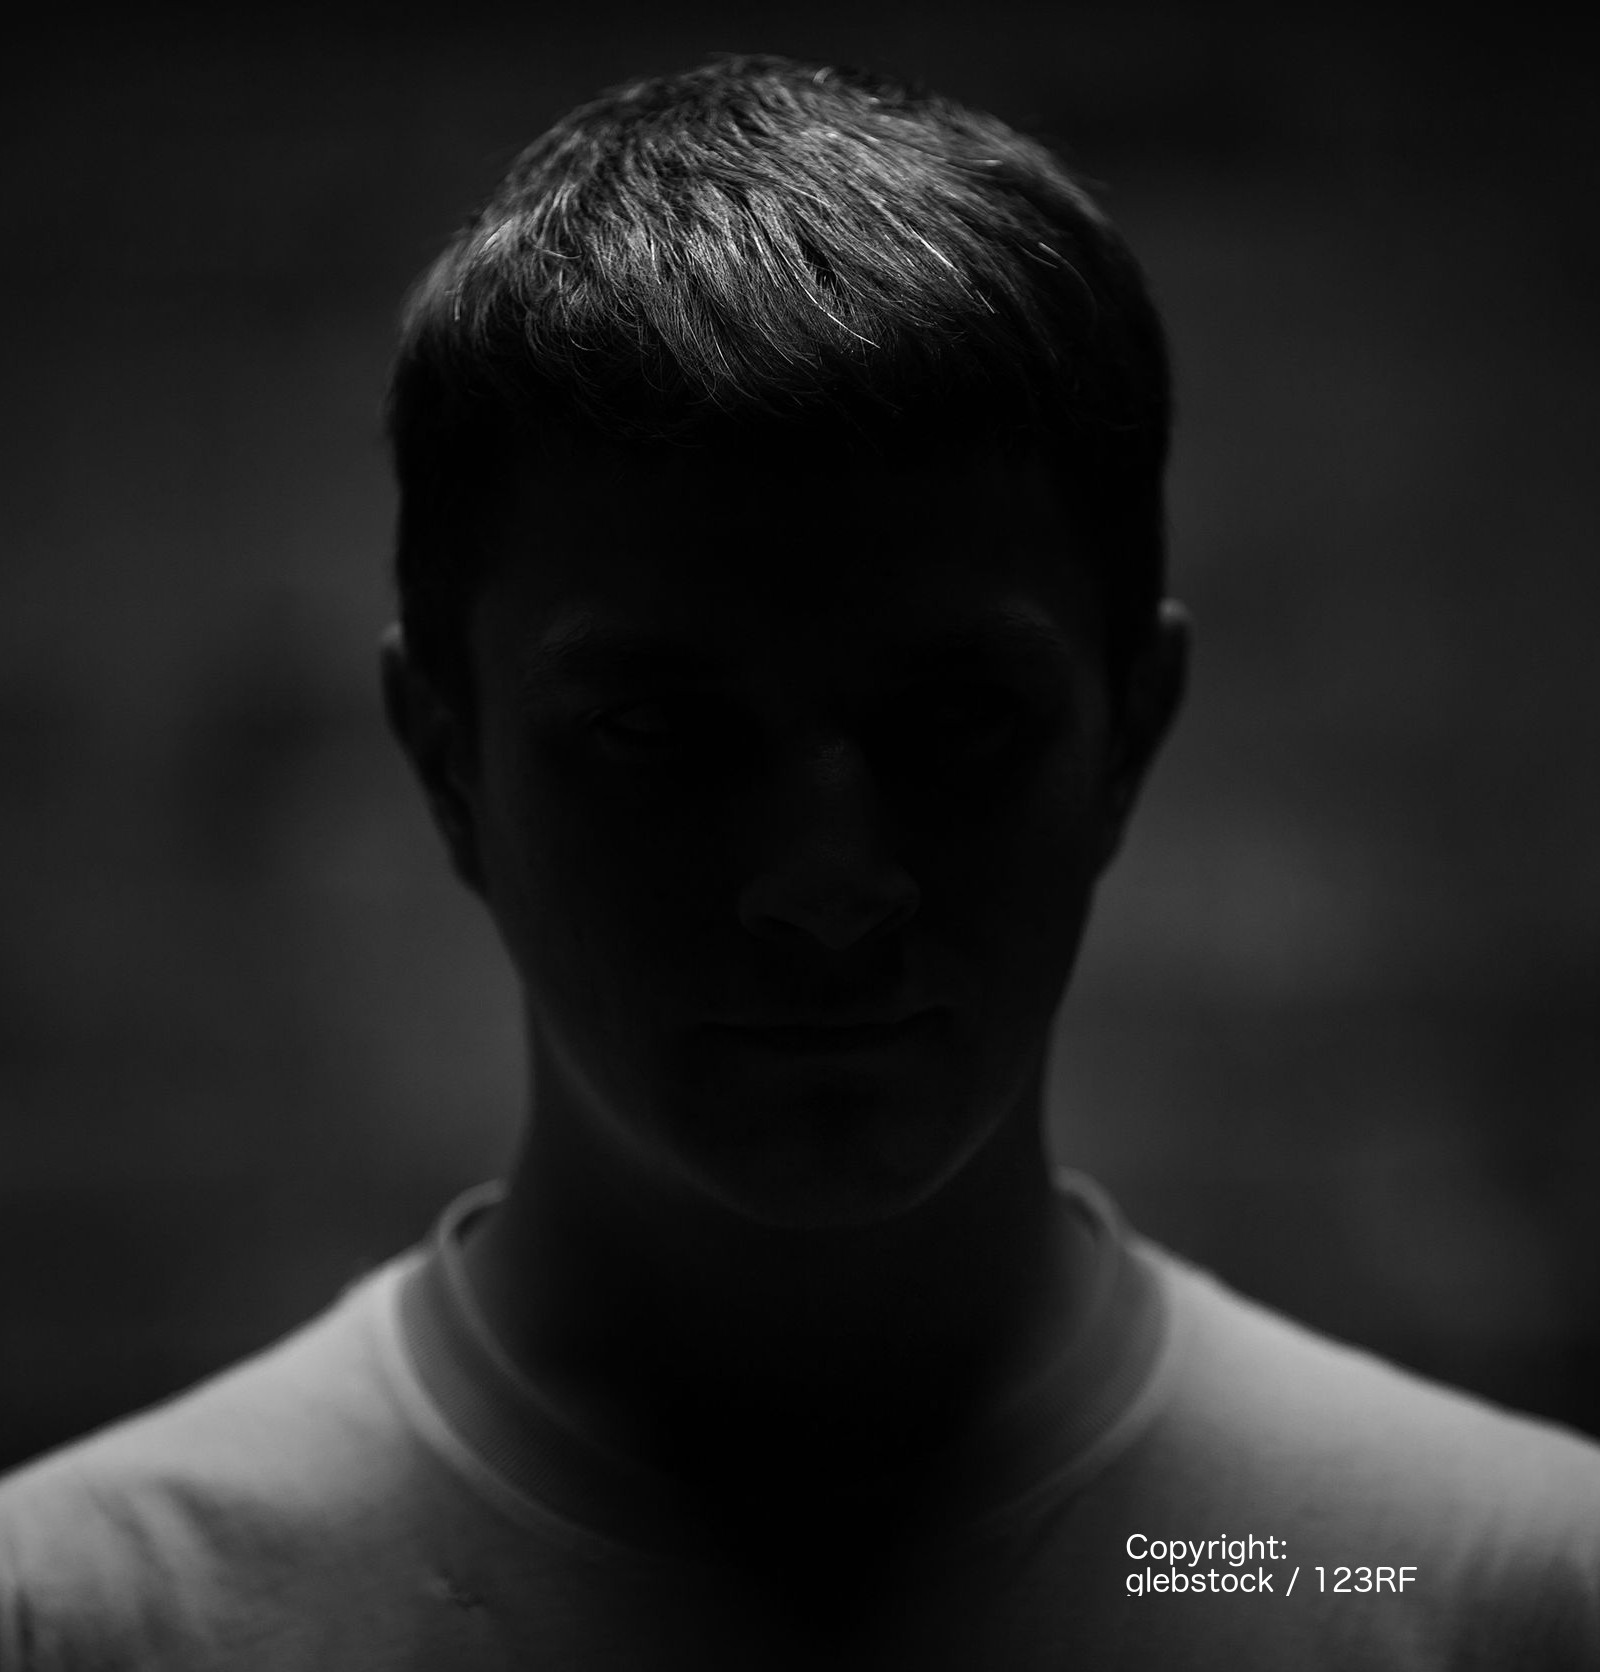
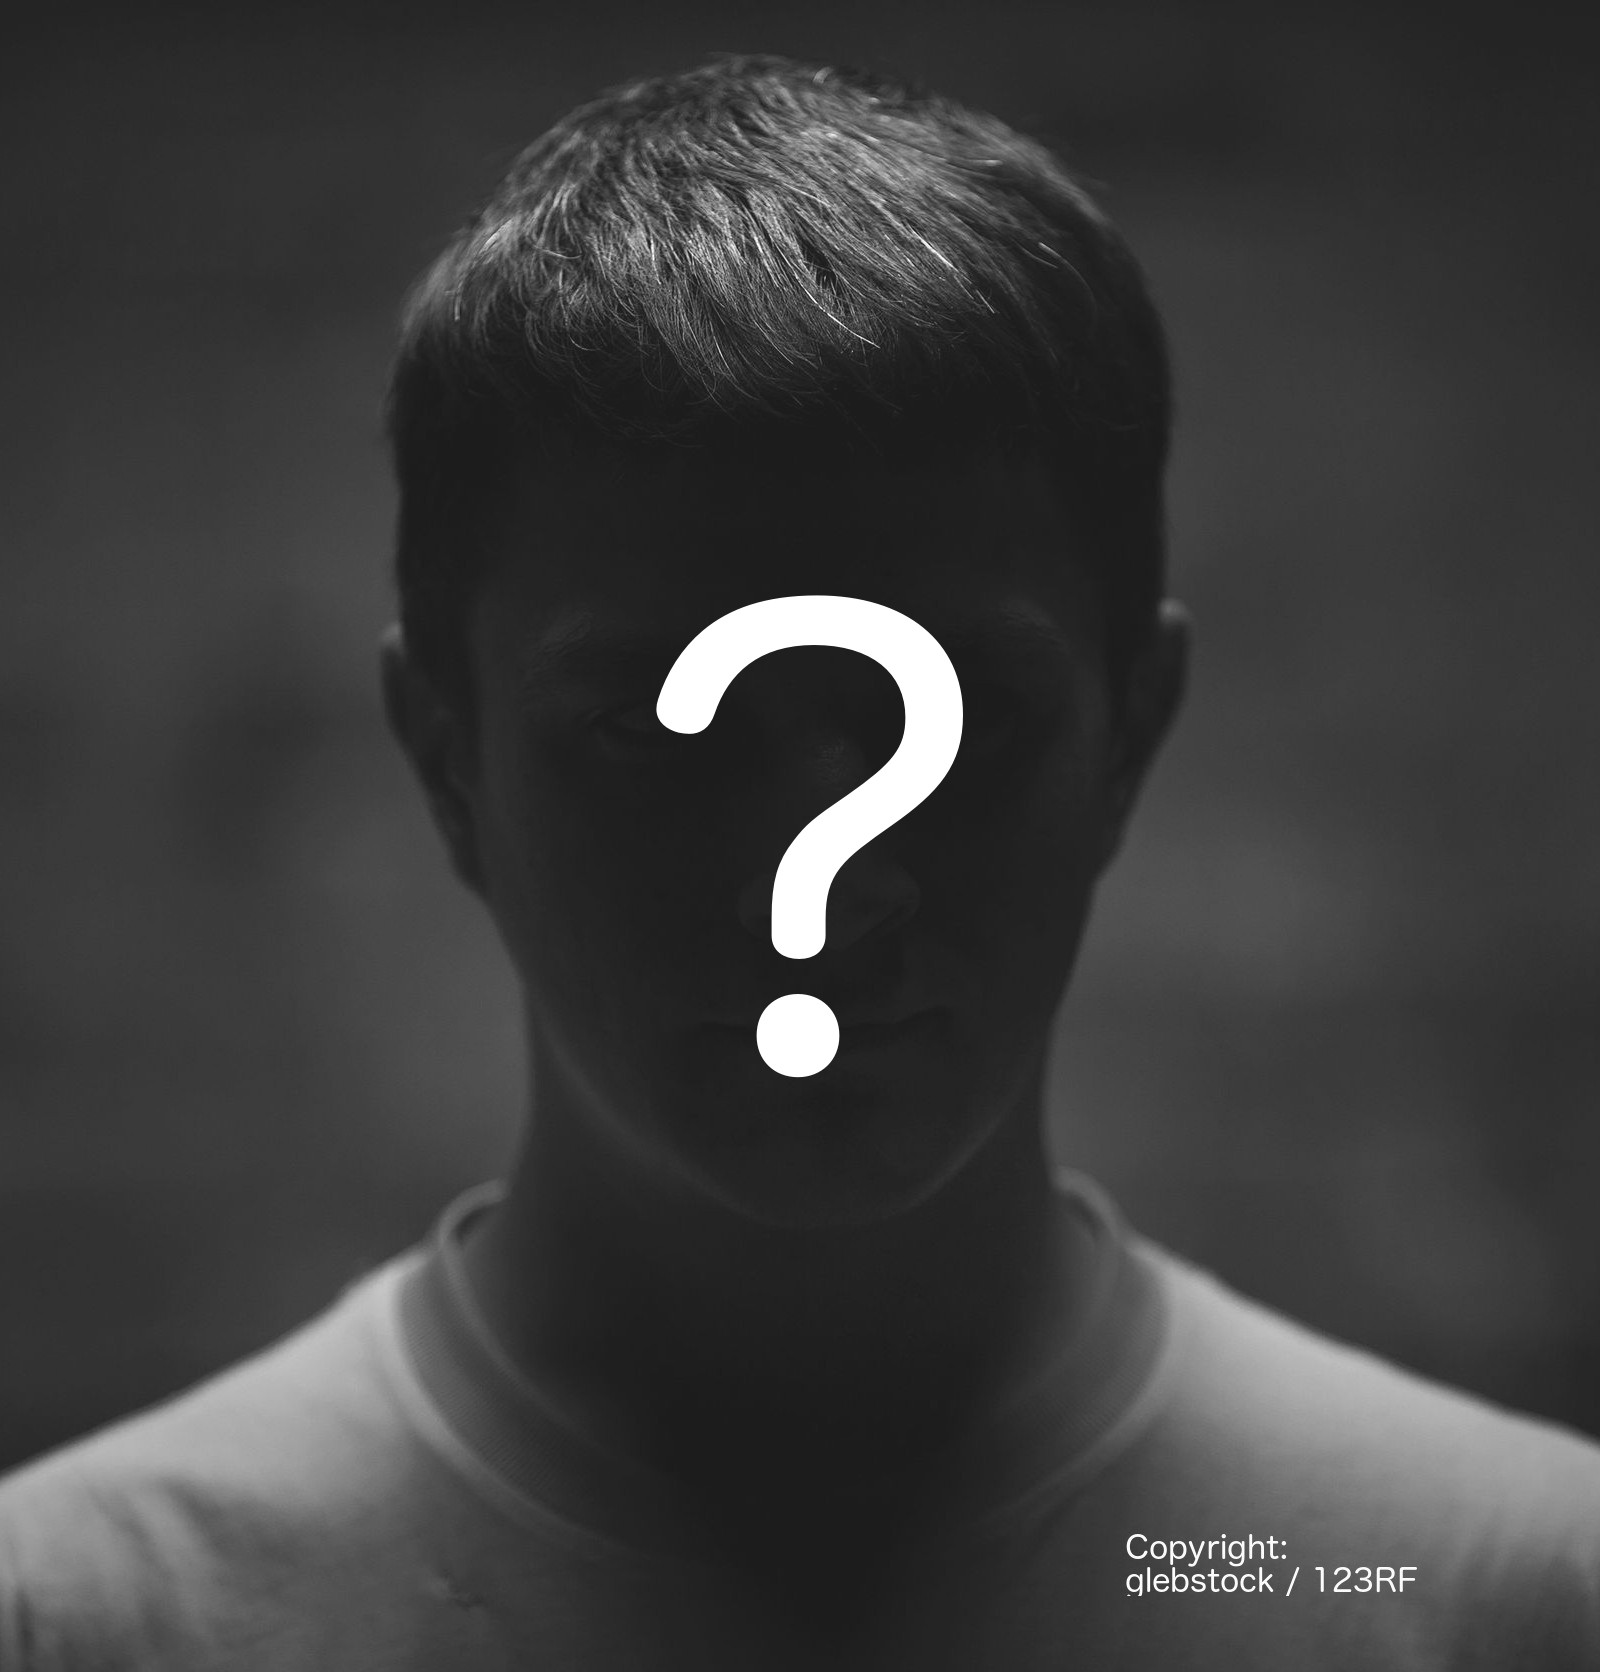
fixed some stuff

diff --git a/index.html b/index.html
@@ -202,10 +202,11 @@
             </div>
           </div>
           <div class="col-xs-9">
-            <h4>嘉宾导师</h4>
+            <h4>神秘嘉宾导师</h4>
             <p>
-              在夏令营过程中，我们还会邀请到来自相关领域的大牛嘉宾。他们将向你展示行业最前沿的信息，<!--
-              -->告诉你金融、数学等领域如何与计算机科学有机结合，夏令营结束后，甚至还能成为良师益友，日后得到更多帮助！
+              我们还请来了神秘嘉宾导师给大家分享技术和留学经验！他到底是<b>美国名校学霸</b>？<!--
+              -->还是<b>硅谷技术高手</b>？究竟是<b>海归创业大牛</b>？抑或是<b>留学资深专家</b>？<!--
+              -->来HackerCamp大腿由你来抱！
             </p>
           </div>
         </li>
